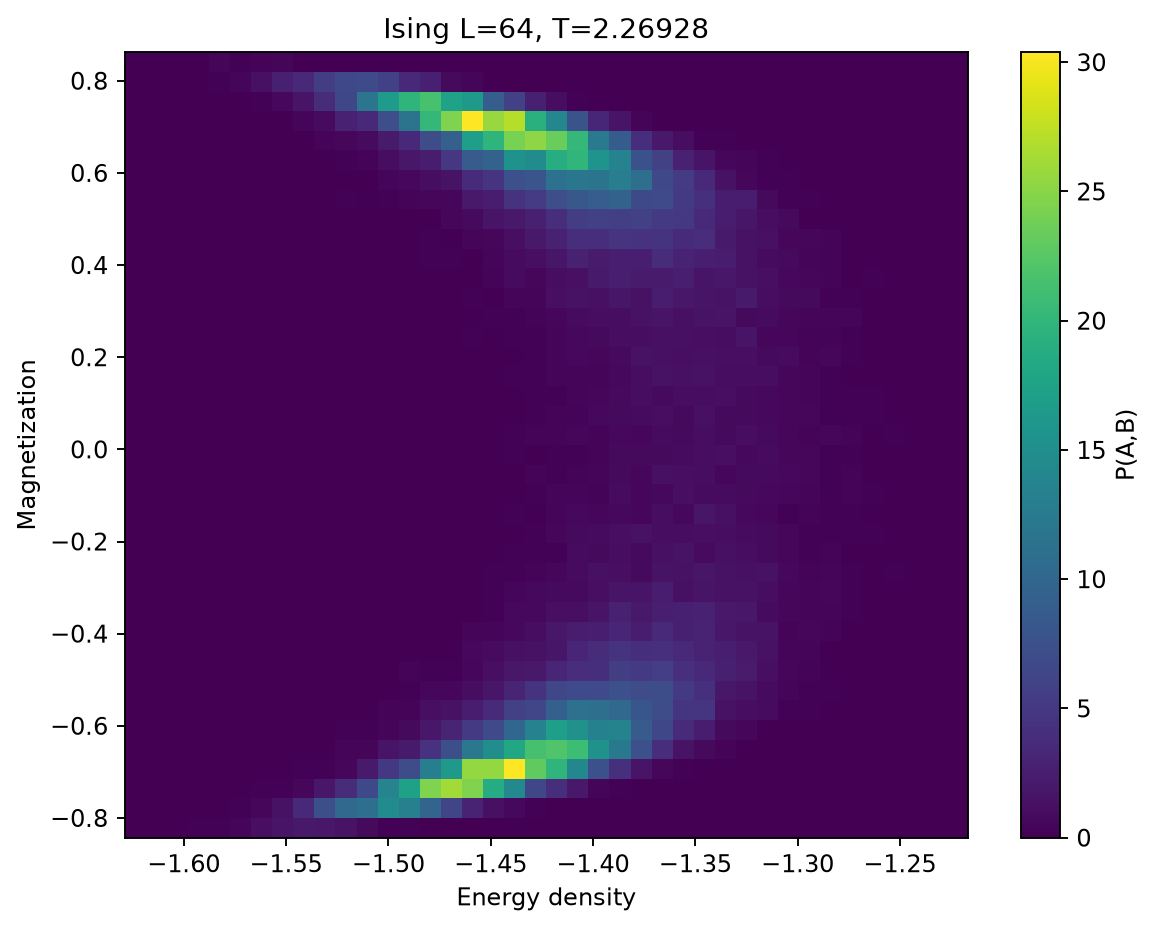
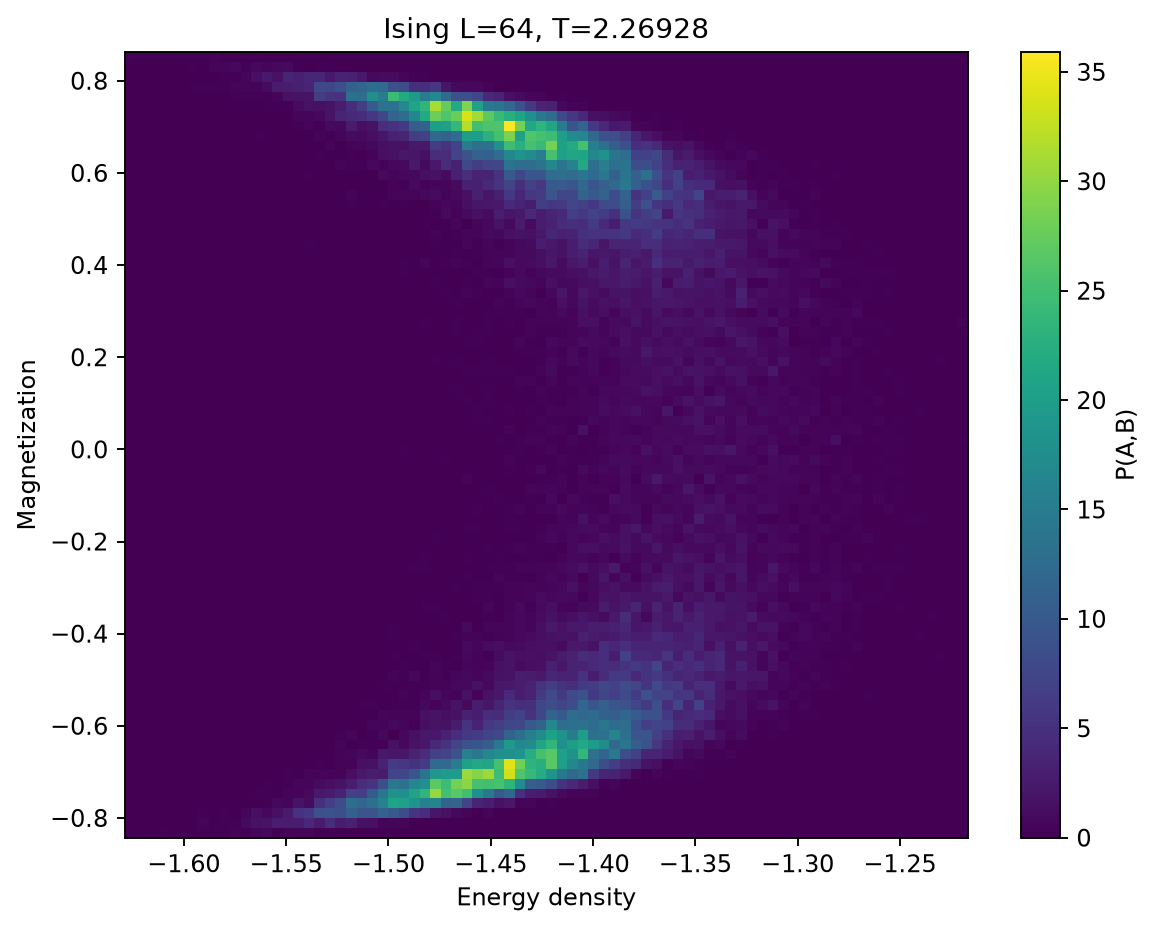
base

diff --git a/analysis/he3.py b/analysis/he3.py
@@ -7,6 +7,13 @@ from models.he3.analysis import He3Analysis
 from utils.Analysis.parallel_tempering import PTAnalysis
 from utils.data_io import load_runs
 
+import numpy as np
+
+from utils.Analysis.joint_histogram import (
+    joint_histogram,
+    plot_joint_histogram,
+)
+
 
 # Settings
 input_file = "data/he3_run.npz"
@@ -19,6 +26,11 @@ q = 0.5  # Ordinary vortices: 1.0; half-quantum vortices: 0.5
 # Optional fit window
 wm_temperature_range = None
 
+
+# Joint probability distributions
+joint_L = 96
+joint_temperature = 0.39
+joint_bins = 40
 
 # Load data
 runs = load_runs(input_file)
@@ -53,6 +65,96 @@ ax = figures["helicity"].axes[0]
 
 ax.legend(frameon=False)
 
+
+# ----------------------------------------
+# Joint probability distributions
+# ----------------------------------------
+
+run = runs[joint_L]
+
+temperatures = np.asarray(run["metadata"]["temperatures"])
+idx = np.argmin(np.abs(temperatures - joint_temperature))
+actual_T = float(temperatures[idx])
+
+print(
+    f"Joint distributions: L={joint_L}, "
+    f"requested T={joint_temperature:.5f}, "
+    f"actual T={actual_T:.5f}"
+)
+
+s = run["samples"]
+N = joint_L**2
+
+# Extract simultaneous measurements at the selected temperature
+E = s["energy"][:, idx]
+D = s["density"][:, idx]
+C_chi = s["chirality"][:, idx]
+R = s["phase_real"][:, idx]
+I = s["phase_imag"][:, idx]
+
+# Keep valid measurements
+valid = (
+    np.isfinite(E)
+    & np.isfinite(D)
+    & (D > 0)
+    & np.isfinite(C_chi)
+    & np.isfinite(R)
+    & np.isfinite(I)
+)
+
+E, D, C_chi, R, I = (
+    array[valid] for array in (E, D, C_chi, R, I)
+)
+
+# Construct physical observables
+e = E / N
+n = D / N
+
+chi = C_chi / D
+abs_chi = np.abs(chi)
+
+p2 = np.hypot(R, I) / N
+
+
+# ----------------------------------------
+# Select observable pairs
+# ----------------------------------------
+
+pairs = {
+    "energy_chirality": (
+        e, chi,
+        r"Energy density $e$",
+        r"Signed chirality $m_\chi$",
+    ),
+    "energy_phase": (
+        e, p2,
+        r"Energy density $e$",
+        r"Composite phase magnitude $p_2$",
+    ),
+}
+
+
+# ----------------------------------------
+# Generate 2D and 3D plots
+# ----------------------------------------
+
+for name, (x, y, x_label, y_label) in pairs.items():
+
+    hist = joint_histogram(
+        x,
+        y,
+        bins=joint_bins,
+    )
+
+    plots = plot_joint_histogram(
+        hist,
+        x_label=x_label,
+        y_label=y_label,
+        title=f"He3: {name}, L={joint_L}, T={actual_T:.5f}",
+    )
+
+    for plot_name, fig in plots.items():
+        figures[f"joint_L{joint_L}_{name}_{plot_name}"] = fig
 
 
 # Parallel tempering analysis

diff --git a/analysis/ising.py b/analysis/ising.py
@@ -33,6 +33,7 @@ actual_T, hist = joint_histogram_from_run(
     temperature=Tc,
     x_name="energy",
     y_name="magnetization",
+    bins=80,
     x_transform=lambda x: x / L**2,
     y_transform=lambda y: y / L**2,
 )

diff --git a/analysis_results/he3/analysis.md b/analysis_results/he3/analysis.md
@@ -41,6 +41,22 @@ The WM fit is exploratory. The chirality Binder cumulants are inspected visually
 
 ![density](./density.png)
 
+## Joint L96 Energy Chirality Joint Heatmap
+
+![joint_L96_energy_chirality_joint_heatmap](./joint_L96_energy_chirality_joint_heatmap.png)
+
+## Joint L96 Energy Chirality Joint Surface
+
+![joint_L96_energy_chirality_joint_surface](./joint_L96_energy_chirality_joint_surface.png)
+
+## Joint L96 Energy Phase Joint Heatmap
+
+![joint_L96_energy_phase_joint_heatmap](./joint_L96_energy_phase_joint_heatmap.png)
+
+## Joint L96 Energy Phase Joint Surface
+
+![joint_L96_energy_phase_joint_surface](./joint_L96_energy_phase_joint_surface.png)
+
 ## Parallel Tempering
 
 ![parallel_tempering](./parallel_tempering.png)
